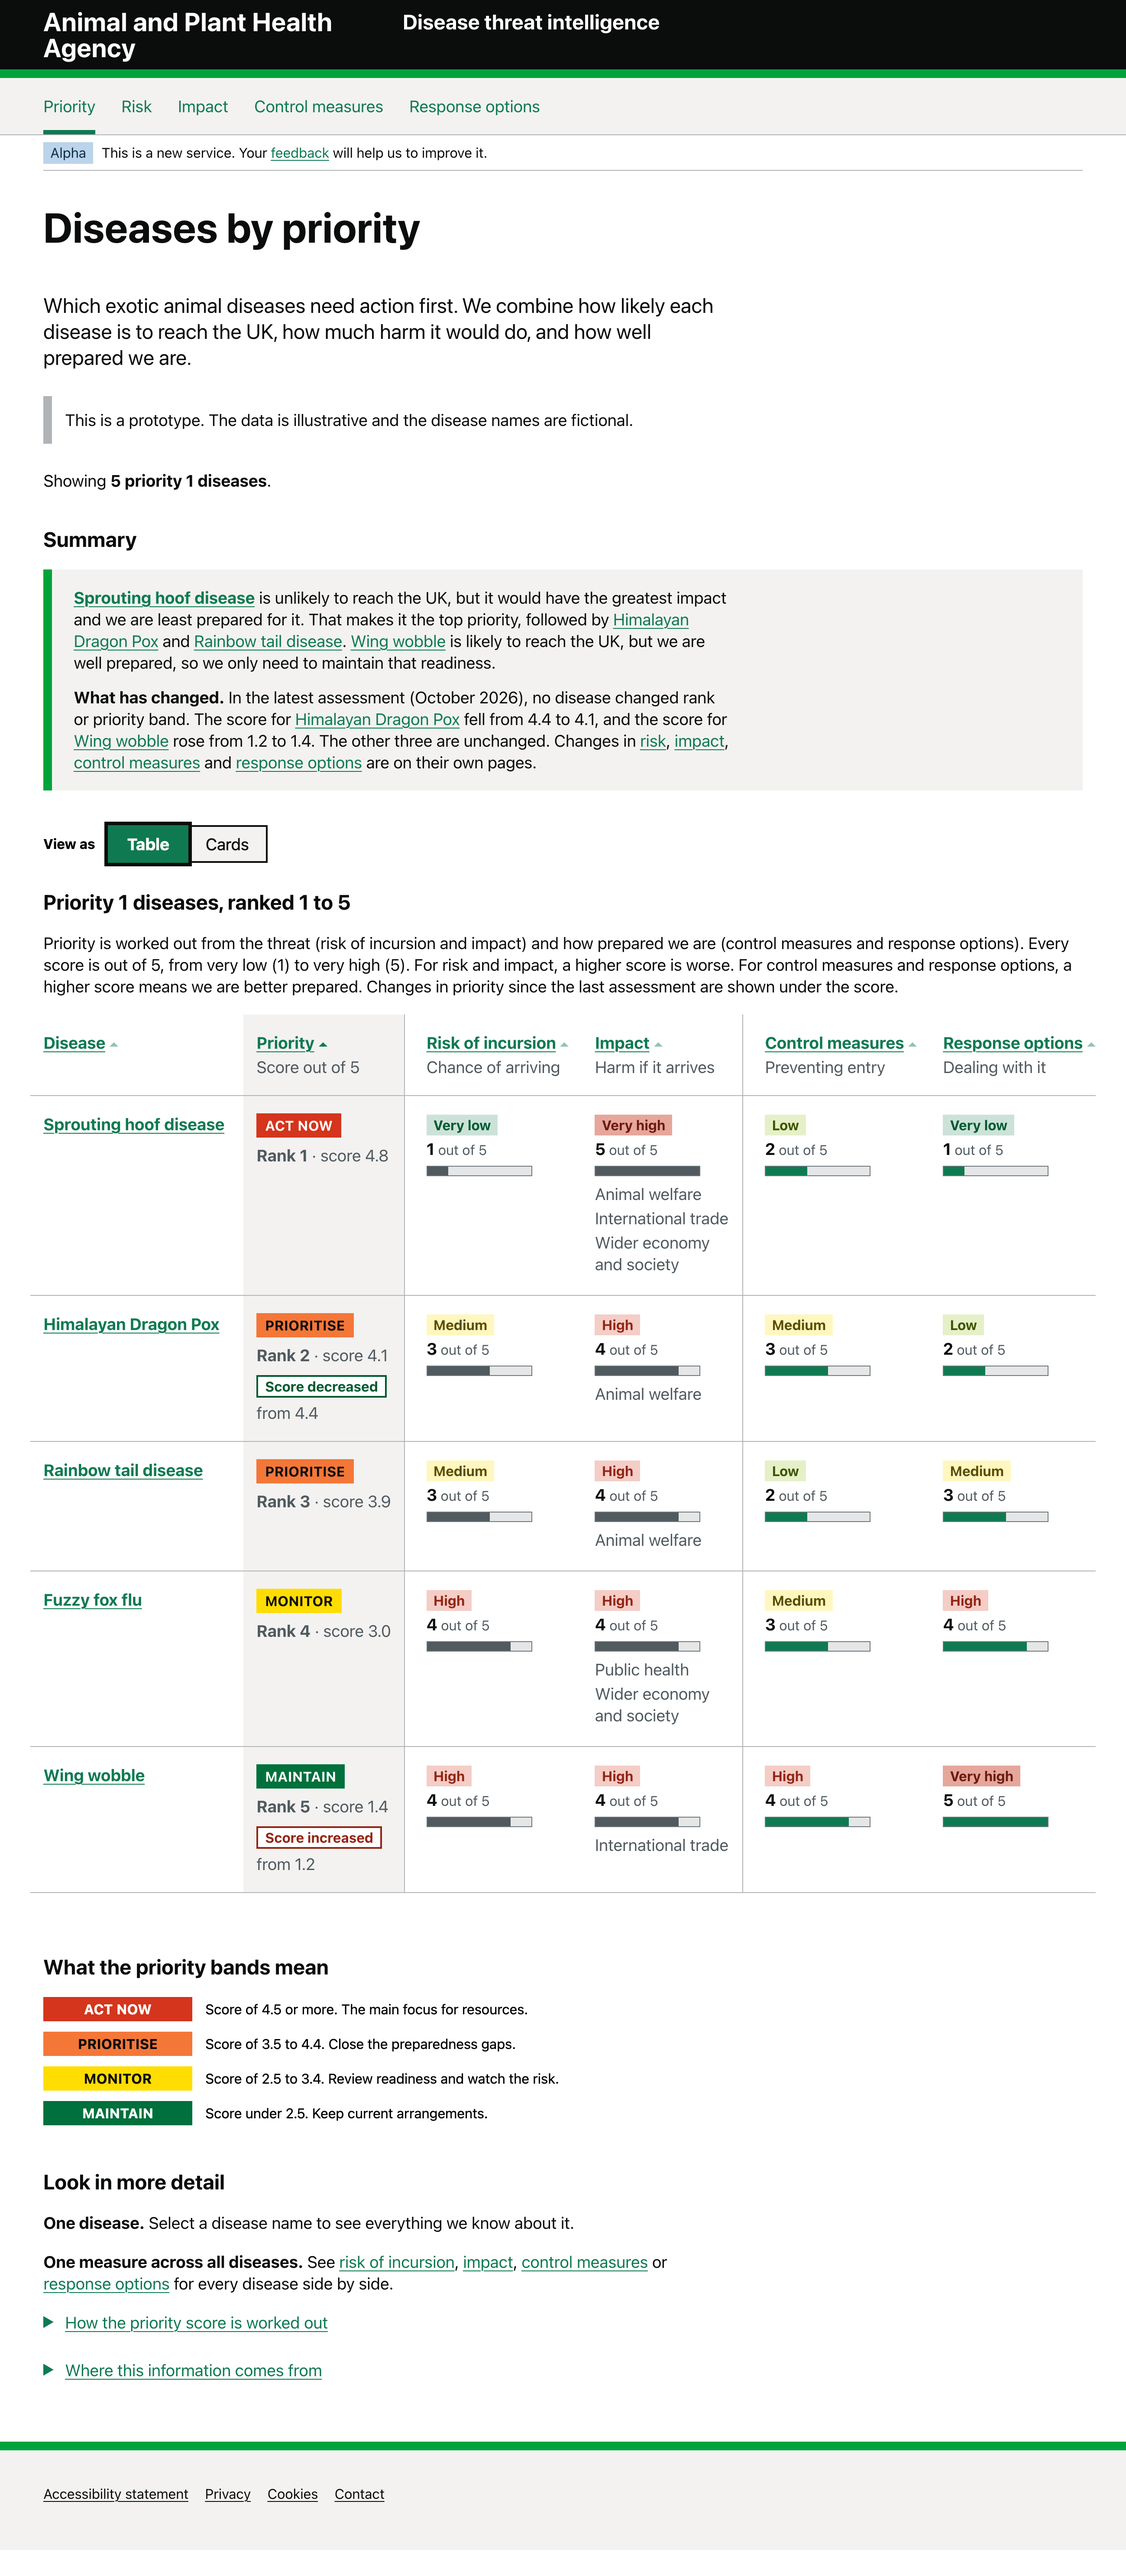
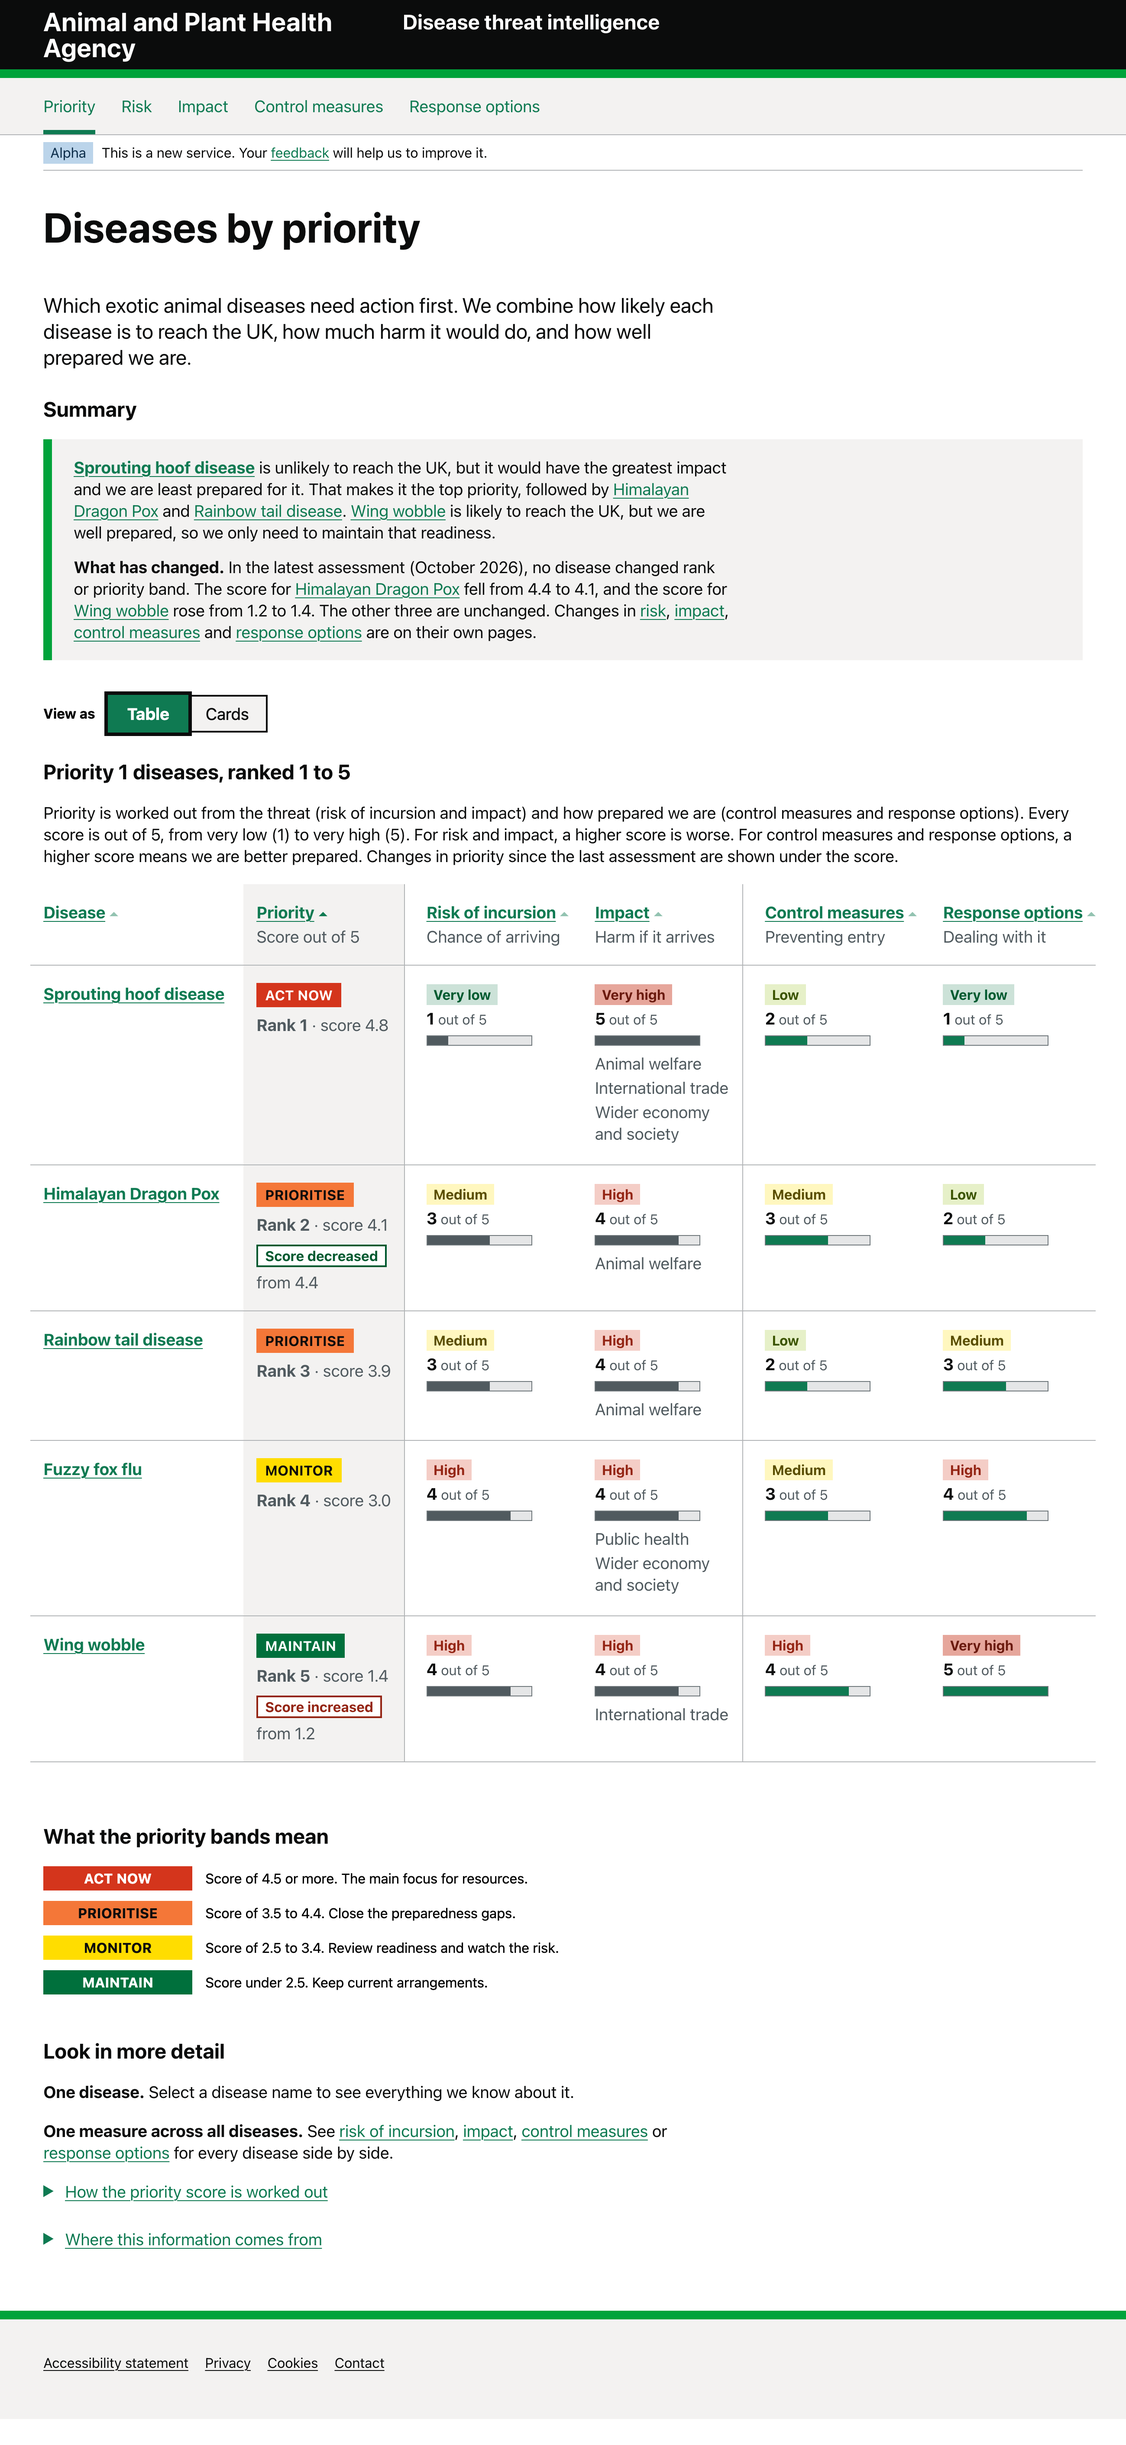
Remove the prototype notice and diseases count line from the priority pages

diff --git a/app/assets/design/priority-view/option-b.html b/app/assets/design/priority-view/option-b.html
@@ -55,10 +55,7 @@
       <div class="govuk-grid-column-two-thirds">
         <h1 class="govuk-heading-xl">Diseases by priority</h1>
         <p class="govuk-body-l">Which exotic animal diseases need action first. We combine how likely each disease is to reach the UK, how much harm it would do, and how well prepared we are.</p>
-        <div class="govuk-inset-text">
-          This is a prototype. The data is illustrative and the disease names are fictional.
-        </div>
-        <p class="govuk-body app-scope">Showing <strong>5 priority 1 diseases</strong>. Every score is out of 5, from very low (1) to very high (5). For risk and impact, a higher score is worse. For control measures and response options, a higher score means we are better prepared.</p>
+        <p class="govuk-body app-scope">Every score is out of 5, from very low (1) to very high (5). For risk and impact, a higher score is worse. For control measures and response options, a higher score means we are better prepared.</p>
 
         <h2 class="govuk-heading-m" id="summary-heading">Summary</h2>
         <div class="app-focus" aria-labelledby="summary-heading">

diff --git a/app/assets/design/priority-view/index.html b/app/assets/design/priority-view/index.html
@@ -55,13 +55,8 @@
       <div class="govuk-grid-column-two-thirds">
         <h1 class="govuk-heading-xl">Diseases by priority</h1>
         <p class="govuk-body-l">Which exotic animal diseases need action first. We combine how likely each disease is to reach the UK, how much harm it would do, and how well prepared we are.</p>
-        <div class="govuk-inset-text">
-          This is a prototype. The data is illustrative and the disease names are fictional.
-        </div>
       </div>
     </div>
-
-    <p class="govuk-body app-scope">Showing <strong>5 priority 1 diseases</strong>.</p>
 
     <h2 class="govuk-heading-m" id="summary-heading">Summary</h2>
     <div class="app-focus" aria-labelledby="summary-heading">

diff --git a/app/assets/design/priority-view/option-c.html b/app/assets/design/priority-view/option-c.html
@@ -56,13 +56,8 @@
       <div class="govuk-grid-column-two-thirds">
         <h1 class="govuk-heading-xl">Diseases by priority</h1>
         <p class="govuk-body-l">Which exotic animal diseases need action first. We combine how likely each disease is to reach the UK, how much harm it would do, and how well prepared we are.</p>
-        <div class="govuk-inset-text">
-          This is a prototype. The data is illustrative and the disease names are fictional.
-        </div>
       </div>
     </div>
-
-    <p class="govuk-body app-scope">Showing <strong>5 priority 1 diseases</strong>.</p>
 
     <h2 class="govuk-heading-m" id="summary-heading">Summary</h2>
     <div class="app-focus" aria-labelledby="summary-heading">
